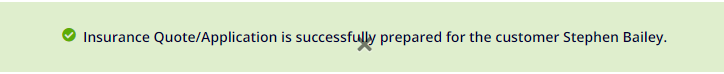
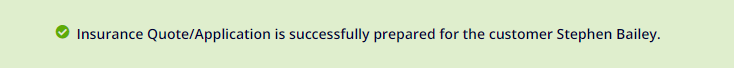
Updated content on both OBO pages, and added updated notification image.

Changed region(s): [[0.0608, 0.3478, 0.942, 0.6957], [0.0, 0.9565, 1.0, 0.9855], [0.0, 0.0, 1.0, 0.029]]

diff --git a/_pages/fsa/features/fsa-agent-enablement.md b/_pages/fsa/features/fsa-agent-enablement.md
@@ -5,7 +5,7 @@ title: FSA Agent Enablement
 **Note**: This feature is introduced with version 4.0 of the FSA Spartacus libraries.
 
 Financial Services Accelerator provides a framework that enables business users to execute processes on behalf of their customers. 
-For this purpose, we have introduced the On-behalf-of Framework (OBO framework). 
+For this purpose, we have introduced the On-Behalf-of Framework (OBO framework). 
 
 ***
 
@@ -18,7 +18,7 @@ For this purpose, we have introduced the On-behalf-of Framework (OBO framework).
 
 ## Overview
 
-The On-behalf-of Framework is based on the on-behalf-of consent (`OBOConsent`), and a new user group named Seller Group (`sellergroup`).
+The On-Behalf-of Framework is based on the on-behalf-of consent (`OBOConsent`), and a new user group named Seller Group (`sellergroup`).
 
 To make use of this feature, business users first need to be added to the Seller Group. 
 Every member of this user group is defined as a **Seller** and can create new customers and perform actions on their behalf in the portal.
@@ -26,11 +26,10 @@ Adding users to Seller Group is done through the Backoffice.
 
 When sellers create customers, they are automatically given the `OBOConsent` with full permissions to execute business actions in name of the created customer. 
 Currently, the seller can prepare quotes for a customer and get a preview of their activities and insured objects (quotes, policies, claims). 
-The central place of the OBO framework is the Seller Dashboard page. 
 
 For more information on back-end implementation, see [Agent Enablement](https://help.sap.com/viewer/a7d0f0c5faa44002bf81e1a9a91c77e2/latest/en-US/cbf7b289a4414090a26e23077e2e4e1f.html) documentation on the SAP Help Portal. 
 
-To support this feature on the storefront, a Seller Dashboard has been introduced.
+The central place of the OBO framework on the FSA Spartacus is the Seller Dashboard page, introduced for this occasion. 
 
 ## User Journey 
 
@@ -40,14 +39,14 @@ After logging in, the business user with the seller role can access the Seller D
 
 ![Accessing Seller Dashboard]({{ site.baseurl }}/assets/images/fsa/OBO/seller-dashboard-access-link.png)
 
-After they land on the Dashboard, sellers can see their personal details on the right, while in the Dashboard Overview section on the left, they can see number of existing customers, as well as options for adding a new customer and previewing the list of existing customers. 
+After they land on the Dashboard, sellers can see their personal details on the right, while in the *Dashboard Overview* section on the left, they can see number of existing customers, as well as options for adding a new customer and previewing the list of existing customers. 
 
 ![Seller Dashboard Preview]({{ site.baseurl }}/assets/images/fsa/OBO/seller-dashboard-overview.png)
 
 
 ### Creating Customer Account
 
-To create a new customer account, seller clicks the **Add a Customer** button in the Dashboard Overview section.
+To create a new customer account, seller clicks the **Add a Customer** card in the Dashboard Overview section.
 
 ![Adding New Customer]({{ site.baseurl }}/assets/images/fsa/OBO/seller-dashboard-add-customer.png)
 
@@ -77,14 +76,14 @@ The system informs the seller that the quote has been successfully created with 
 
 The seller can create as many quotes or applications for the customer as found necessary. 
 After creating the quote, the seller can check if the quote they just created appears on the Customer Dashboard.
-To do that, the seller navigates to Dashboard, opens the list of customers and selects the customer on whose behalf they just created the quote. 
-Click on the arrow opens the Customer Dashboard, where the seller chooses to check customer's quotes and applications. 
-The newly created quote appears in the list. 
+To do that, the seller navigates to Dashboard, opens the list of customers (Step 1 in the figure below) and selects the customer on whose behalf they just created the quote (2). 
+Click on the arrow opens the Customer Dashboard, where the seller chooses to check customer's quotes and applications (3). 
+The newly created quote appears in the list (4). 
 
-![Seller Dashboard Preview]({{ site.baseurl }}/assets/images/fsa/OBO/seller-dashboard-overview.png)
+![Seller Accessing Customer Dashboard]({{ site.baseurl }}/assets/images/fsa/OBO/agent-dashboard-to-customer-dashboard.png)
 
 The customer on whose behalf the seller was acting can then log in to their account and access the created quotes on the **Quotes and Applications** page of the **My Account** area.
-The customer then retrieves the quote or application, enters payment details and completes the checkout.
+The customer retrieves the quote or application, enters payment details and completes the checkout.
 
 ## Components
 
@@ -99,31 +98,20 @@ The second content slot contains `SellerDashboardFlexComponent`, which maps to t
 
 `SellerDashboardComponent`, `SellerDashboardListComponent` and `CreateOBOCustomerComponent` are declared and exported in main `SellerDashboardModule`.
 
-Page route: */seller-dashboard*.
-Page route for Create Customer page: */seller-dashboard/create-customer*.
+Page route: `/seller-dashboard`.
 
-The Seller Dashboard page is guarded by the guards implemented by Spartacus, like `AuthGuard` and `CmsPageGuard`, and by a custom `SellerDashboardGuard`. 
-`SellerDashboardGuard` will allow access to the page only if the currently logged-in customer is part of the seller user group. 
+Page route for Create Customer page: `/seller-dashboard/create-customer`.
+
+The Seller Dashboard page is protected with guards provided by Spartacus, like `AuthGuard` and `CmsPageGuard`, and with a custom `SellerDashboardGuard`. 
+`SellerDashboardGuard` will allow access to the page only if the currently logged-in customer is part of the Seller user group. 
 If not, the appropriate message is displayed, informing the user that they do not have sufficient permissions.
 
 ### Customer Dashboard
 
-The Customer Dashboard page is used to display details about customers created by the seller. 
-Content page with ID `user-profile` contains a content slot that contains `UserProfileFlexComponent` which is mapped to Spartacus `UserProfileComponent`, responsible for rendering the customer's details.  
-The `UserProfileComponent` displays customer's personal details (name, e-mail, date of birth, and avatar), and it also displays the paginated list of customer's insurance objects (claims, quotes and applications, policies). 
+The Customer Dashboard page is used to display details about customers created by the seller.
+Customer dashboard relies heavily on the *My Dashboard* feature. 
+For more information, see [My Dashboard]({{ site.baseurl }}/pages/fsa/features/fsa-my-dashboard.png). 
 
-`UserProfileComponent` is declared and exported in `UserProfileModule`.
+Page route: `/user-profile/:customerId`.
 
-Page route: */user-profile/:customerId*
-
-Page is guarded by `AuthGuard` and `CmsPageGuard`.
-
-Customer dashboard relies heavily on *My Dashboard* feature.
-For more information, see [My Dashboard]({{ site.baseurl }}/pages/fsa/features/fsa-my-dashboard.png) documentation. 
-
-
-
-
-
-
-
+Customer Dashboard page is guarded by `AuthGuard` and `CmsPageGuard`.

diff --git a/_pages/fsa/features/fsa-my-dashboard.md b/_pages/fsa/features/fsa-my-dashboard.md
@@ -4,7 +4,7 @@ title: FSA My Dashboard
 
 **Note**: This feature is introduced with version 4.0 of the FSA Spartacus libraries.
 
-Financial Services Accelerator introduces a single information place for customers called My Dashboard. 
+Customers can now see an overview of the most important information from the *My Account* area on a separate summary page called **Dashboard**.
 
 ***
 
@@ -17,24 +17,37 @@ Financial Services Accelerator introduces a single information place for custome
 
 ## Overview
 
+Logged-in customers can access the Dashboard page to see an overview of their profile and their activities on the portal.
+Besides personal details, such as name, e-mail address and date of birth, customers can preview their quotes and applications, policies and claims.
+
 ## User Journey 
 
-After logging in, customers can access the Dashboard by clicking the **Dashboard** link in the upper right corner, next to **My Account**. 
+When customers log into the portal, they can access the Dashboard by clicking the link in the upper right corner, next to **My Account**. 
 
 ![Accessing My Dashboard]({{ site.baseurl }}/assets/images/fsa/OBO/my-dashboard-access-link.png)
 
-After they land on the Dashboard, customers can see their personal details on the right, while in the Dashboard Options section on the left, they can see number of existing insurance objects, such as quotes and applications, policies, and claims. 
+After they land on the Dashboard, customers can see their photo and personal details in the *Your Profile* section on the right, while on the left, in the *Dashboard Options* section, they can see number of their insurance objects: claims, policies, and quotes and applications. 
+For each of these objects, the customer can open a list to see the details of each object item, such as ID number, payment frequency and status.
+To open a list for the desired object, the customer clicks on the corresponding card. 
+The list opens in a separate section below the previously mentioned sections.   
 
 ![My Dashboard Preview]({{ site.baseurl }}/assets/images/fsa/OBO/my-dashboard-policies.png)
 
 
 ## Components
 
-Dashboard is a content page (ID *my-dashboard*), which consists of two content slots. 
-The first content slot contains `DashboardTitleParagraph` which is responsible for rendering the title of the page. 
-The second content slot contains `DashboardFlexComponent`, which maps to the FSA Spartacus `DashboardComponent`, responsible for rendering the dashboard details. 
-`DashboardComponent` displays customer's photo, name and other personal details, such as e-mail and date of birth. 
+My Dashboard is a content page with ID `user-profile`. 
+This content page consists of a content slot that contains `UserProfileFlexComponent` which is mapped to Spartacus `UserProfileComponent`, responsible for rendering the customer's details.  
+The `UserProfileComponent` displays customer's personal details (name, e-mail, date of birth, and avatar), and the paginated list of customer's insurance objects (claims, quotes and applications, policies). 
 
+`UserProfileComponent` is declared and exported in `UserProfileModule`.
 
+The page route is */user-profile/*.
+
+The following guards, provided by Spartacus, are used to protect the Dashboard page:
+ - `AuthGuard` 
+ - `CmsPageGuard` 
+
+These guards prevent users who are not logged in to see the Dashboard page.
 
 
